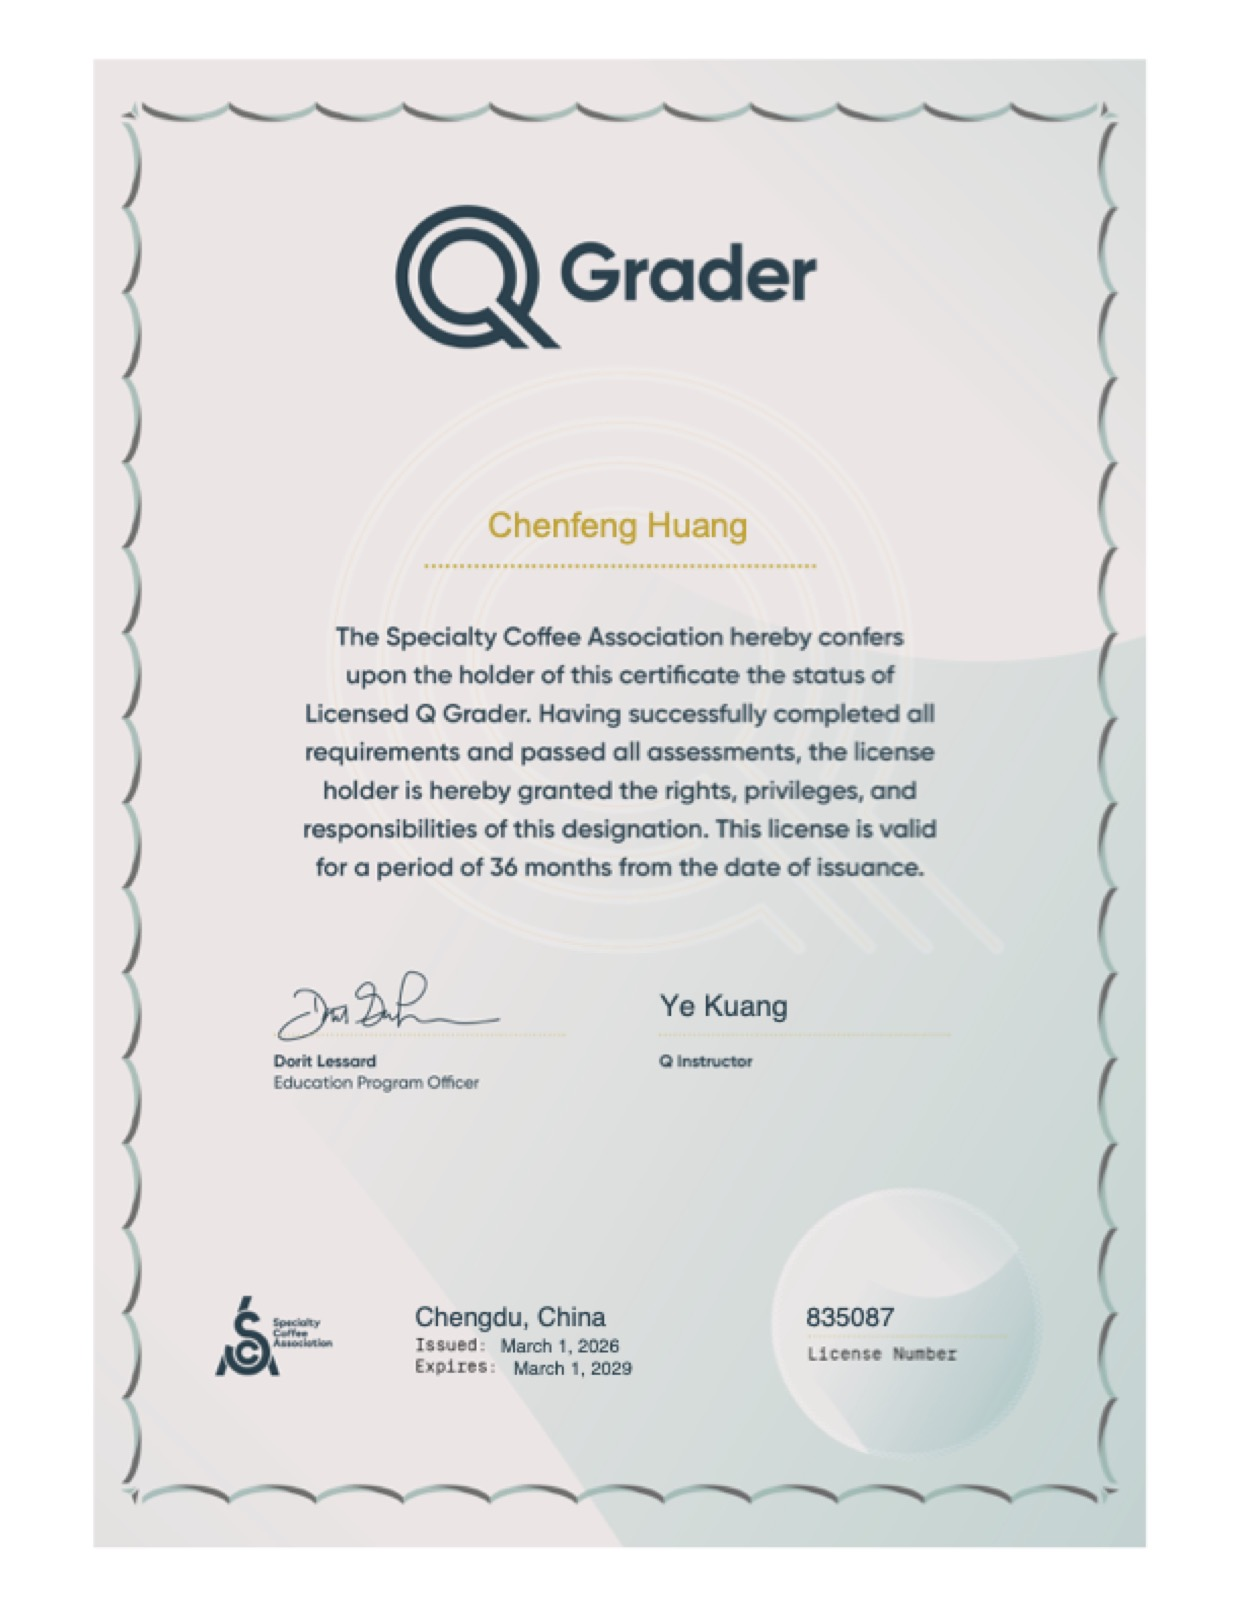
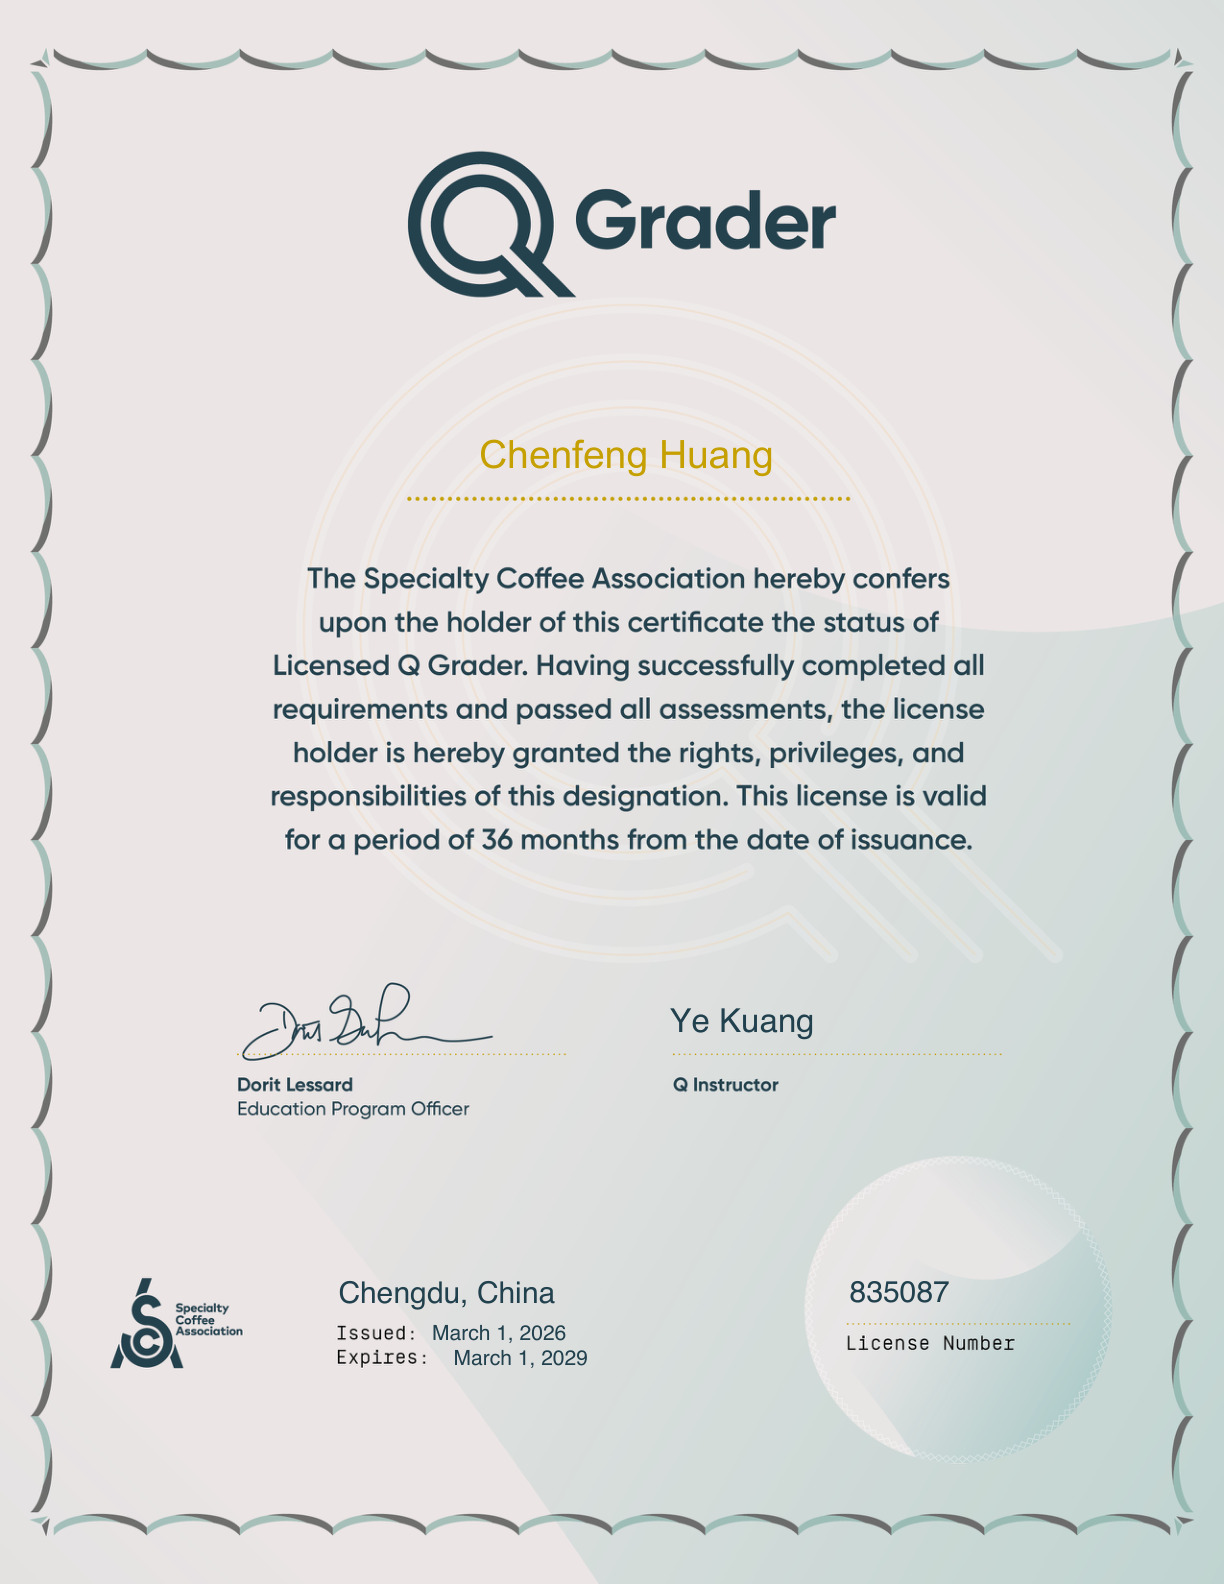
Regenerate certificate JPGs from PDFs; drop unused CSS in Certificate Collection post.
Rasterize first page of Q Grader and Green Coffee Intermediate PDFs at 2x scale
for clearer display alongside existing JPG certificates.

Made-with: Cursor

diff --git a/collections/_posts/2025-09-25-Certificate-Collection.md b/collections/_posts/2025-09-25-Certificate-Collection.md
@@ -9,12 +9,6 @@ no_date: true
 ---
 <!--more-->
 <style>
-.image-container {
-  display: flex;
-  justify-content: center;
-  margin-bottom: 20px;
-}
-
 .image-wrapper {
   width: 100%;
   max-width: 800px;
